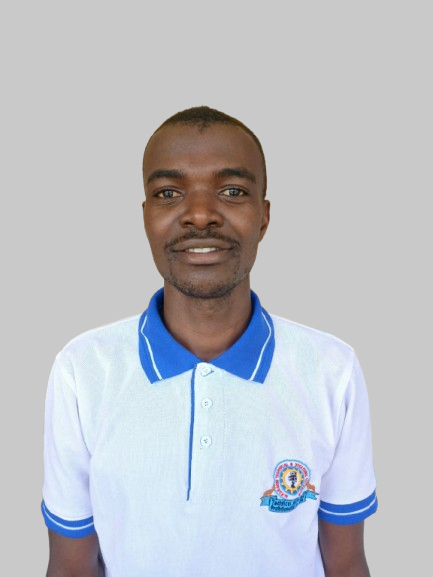
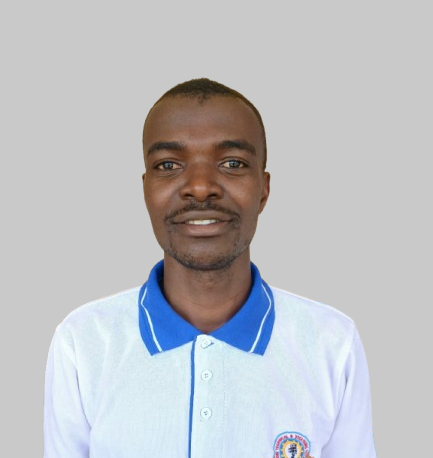
Initial commit: Update on  Page

Changed region(s): [[0.0901, 0.2445, 0.8707, 1.0], [0.3603, 0.1528, 0.6005, 0.2445]]

diff --git a/src/data/departments.ts b/src/data/departments.ts
@@ -79,7 +79,7 @@ export const departments: DepartmentDetails[] = [
     },
     vision: "To be a premier institution for business education, producing ethical leaders and innovative entrepreneurs who contribute to sustainable economic development.",
     mission: "To nurture innovative business minds for a competitive global market.",
-    teachingStaff: ["Mr Emmanuel Chacha", "Mr Hillary Lubale","Ms Faith Kanyiri","Ms Mildred Adhiambo","Mr Mike Kipkoech", "Ms Jenifa Eshilingi", "Ms Beldine Atieno Oguna","Ms Fransisca Nafula","Ms Dorris Wekesa" ],
+    teachingStaff: ["Ms Faith Kanyiri","Ms Mildred Adhiambo", "Ms Dorice Wekesa" ],
     nonTeachingStaff: [],
     trainers: ["Ms Faith Kanyiri","Ms Mildred Adhiambo","Ms Dorice Wekesa" ],
     objectives: [
@@ -175,9 +175,9 @@ export const departments: DepartmentDetails[] = [
     name: "Mechanical & Automotive Engineering Department",
     description: "Mastering vehicle diagnostics, repair, and maintenance.",
     backgroundInfo: "The Mechanical & Automotive Engineering Department is dedicated to training skilled technicians and engineers in vehicle diagnostics, repair, and maintenance. With the automotive industry rapidly evolving towards electric and hybrid vehicles, our department stays current with emerging technologies.",
-    hodImage: "/images/hod/wekesabryan.jpg",
+    hodImage: "/images/hod/COLLINS OMUTANYI.png",
     hodName: "Mr Collins Omutanyi",
-    hodTitle: "Head of Department - Automotive Engineering",
+    hodTitle: "Acting Head of Department - Automotive Engineering",
     hodBio: "Mr. Collins Omutanyi is a master automotive technician and engineer with  experience in vehicle diagnostics, engine repair, and automotive technology. He holds multiple industry certifications and specializes in both traditional and electric vehicle systems.",
     hodSocial: {
       facebook: "https://facebook.com/Collins Omutanyi",
